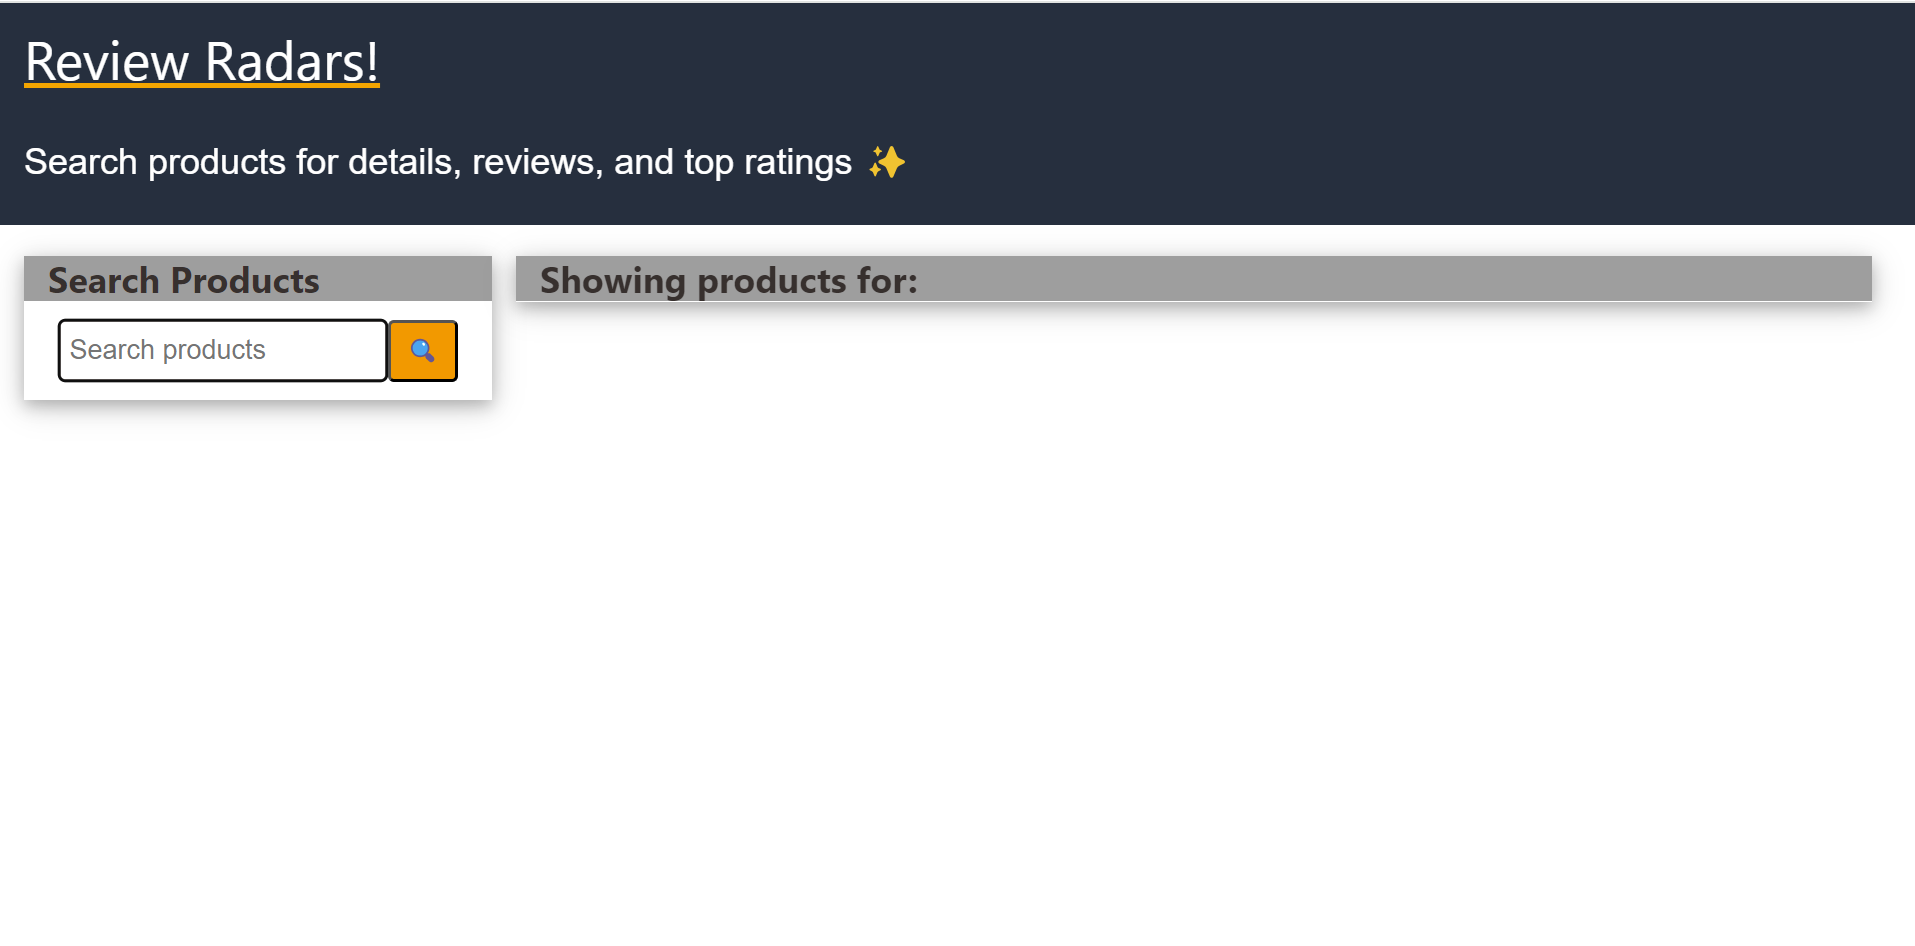
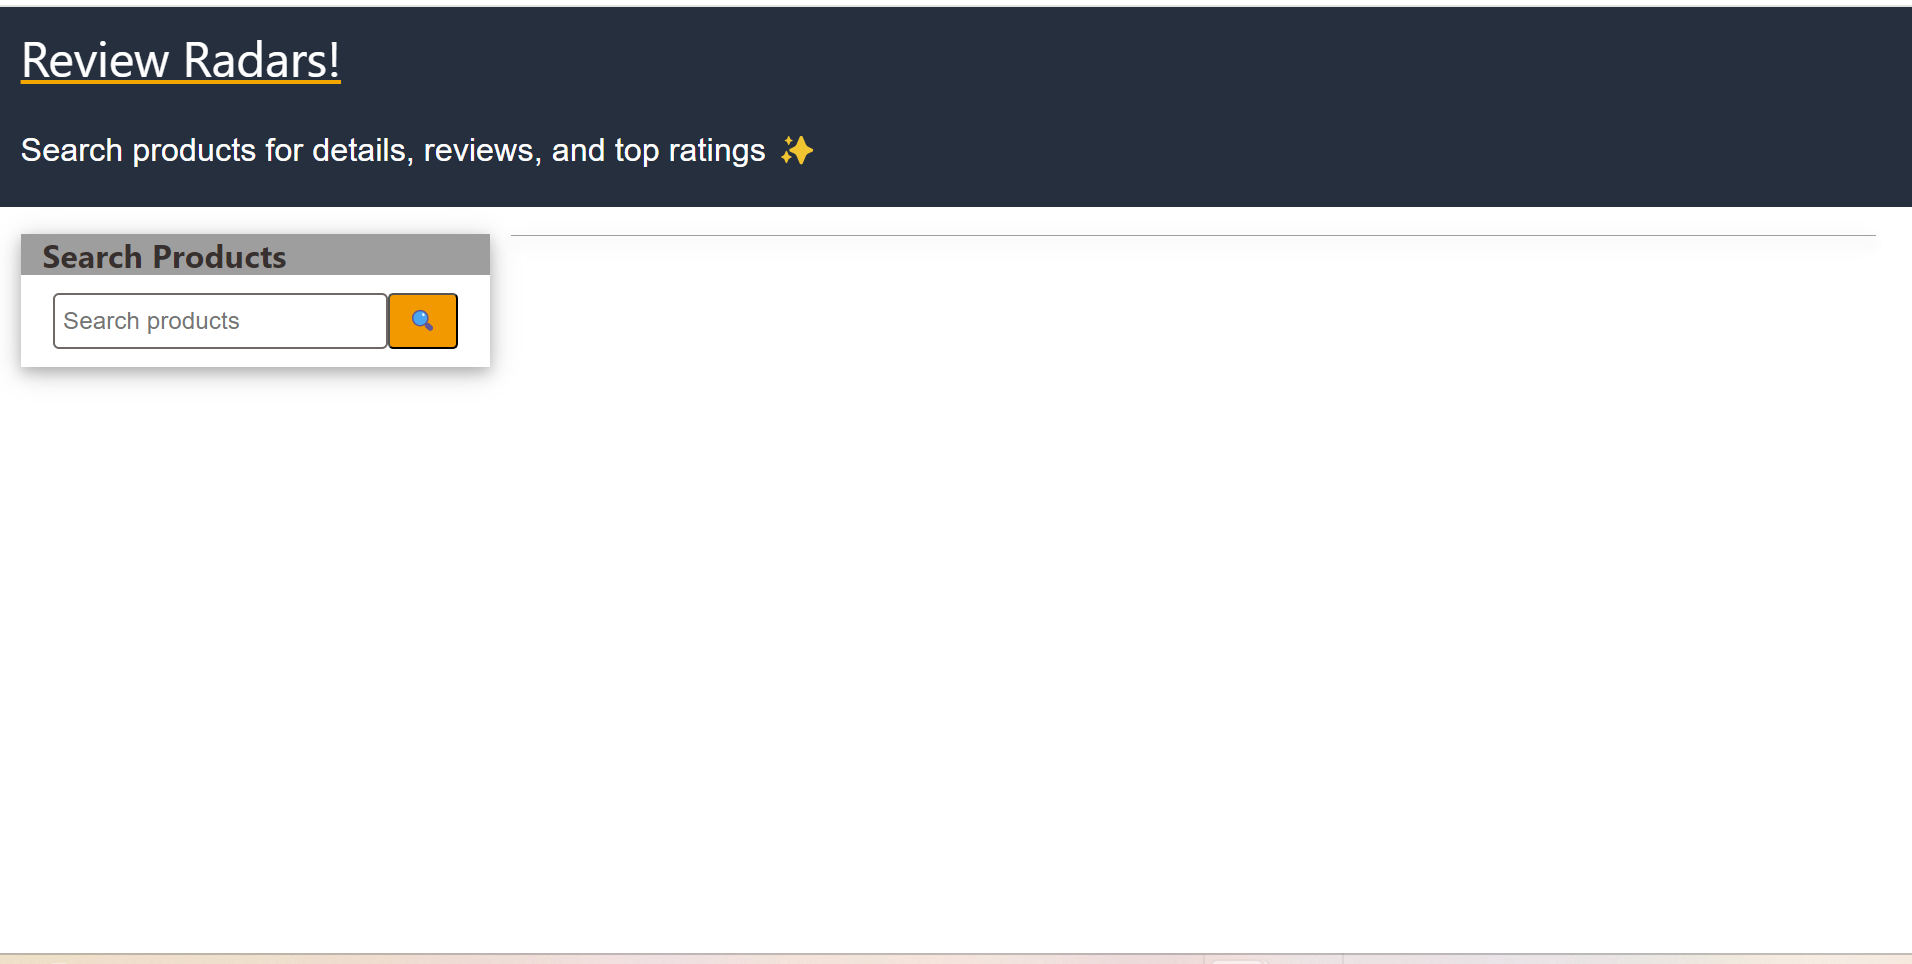
Added catch methods to handle API exceptions and display page with message accordingly

diff --git a/assets/js/script.js b/assets/js/script.js
@@ -1,6 +1,7 @@
 const searchText = document.getElementById('product-name');
 const searchButton = document.getElementById('search-button');
 const productsListEl =  document.getElementById('products-container');
+const productsSearchTextEl =  document.getElementById('products-search');
 
 // add Click event on search button to invoke API and fetch products
 
@@ -27,6 +28,7 @@ async function fetchProducts(event){
     .then(function (products){
         const productsList =  document.getElementById('products-container');
         productsList.textContent = '';
+        productsSearchTextEl.textContent = `Showing products for: ${productName}`;
         // Manipulate DOM to present with list of product search results
         for(let i = 0; i<products.length;i++){
             const productEl = document.createElement('button');
@@ -47,6 +49,9 @@ async function fetchProducts(event){
             productsListEl.appendChild(divEl);
 
 }
+})
+.catch(function (error){
+    productsSearchTextEl.textContent = 'Unable to retrieve Product Search results. Please try again';
 })
     
 }

diff --git a/assets/js/review.js b/assets/js/review.js
@@ -1,3 +1,5 @@
+
+const displayHeaderEl = document.getElementById('display-heading');
 // EventListener to show loader icon while document load is still in progress
 document.addEventListener("readystatechange",(event) =>{
     if(document.readyState !== "complete"){
@@ -12,6 +14,8 @@ document.addEventListener("readystatechange",(event) =>{
 
 // Invoke API On document load
 document.getElementById('rating-review-container').onload = fetchProductRatingsAndReviews();
+
+// Function to retrieve product ratings and reviews
 async function fetchProductRatingsAndReviews(){
     const ratingReviewEl = document.getElementById('rating-review-container');
     let productInfo = {};
@@ -55,4 +59,7 @@ async function fetchProductRatingsAndReviews(){
             reviewsEl.appendChild(reviewEl);
         }
     } )
+    .catch(function (error){
+        displayHeaderEl.textContent = 'Unable to retrieve Product Ratings & Reviews. Please try again.'
+    })
 }

diff --git a/review.html b/review.html
@@ -18,6 +18,7 @@
         <main class="w3-container">
             <!-- Container for products ratings and reviews -->
             <div class="w3-panel w3-border w3-light-grey w3-round-large" id="rating-review-container">
+                <h3 id="display-heading"></h3>
             </div>
         </main>
         <script src="assets/js/review.js"></script>

diff --git a/index.html b/index.html
@@ -36,7 +36,7 @@
       <div class=" w3-container w3-col s12 m6 l9">
         <div class="w3-card-4">
           <header class="w3-container w3-grey">
-            <h3>Showing products for:</h3>
+            <h3 id="products-search"></h3>
           </header>
           <div class="w3-container" id="products-container">
           </div>
